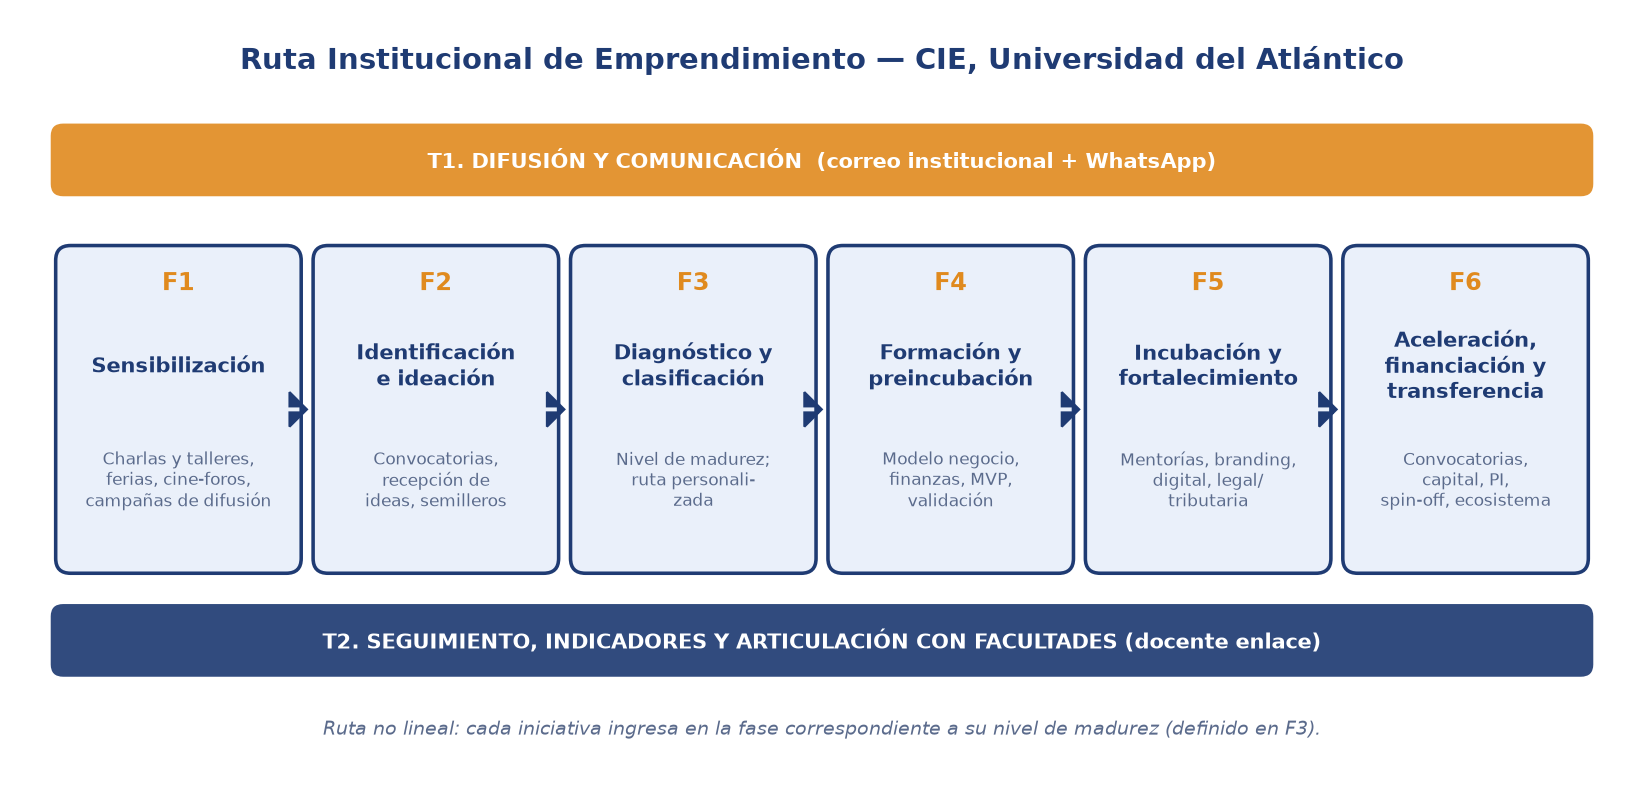
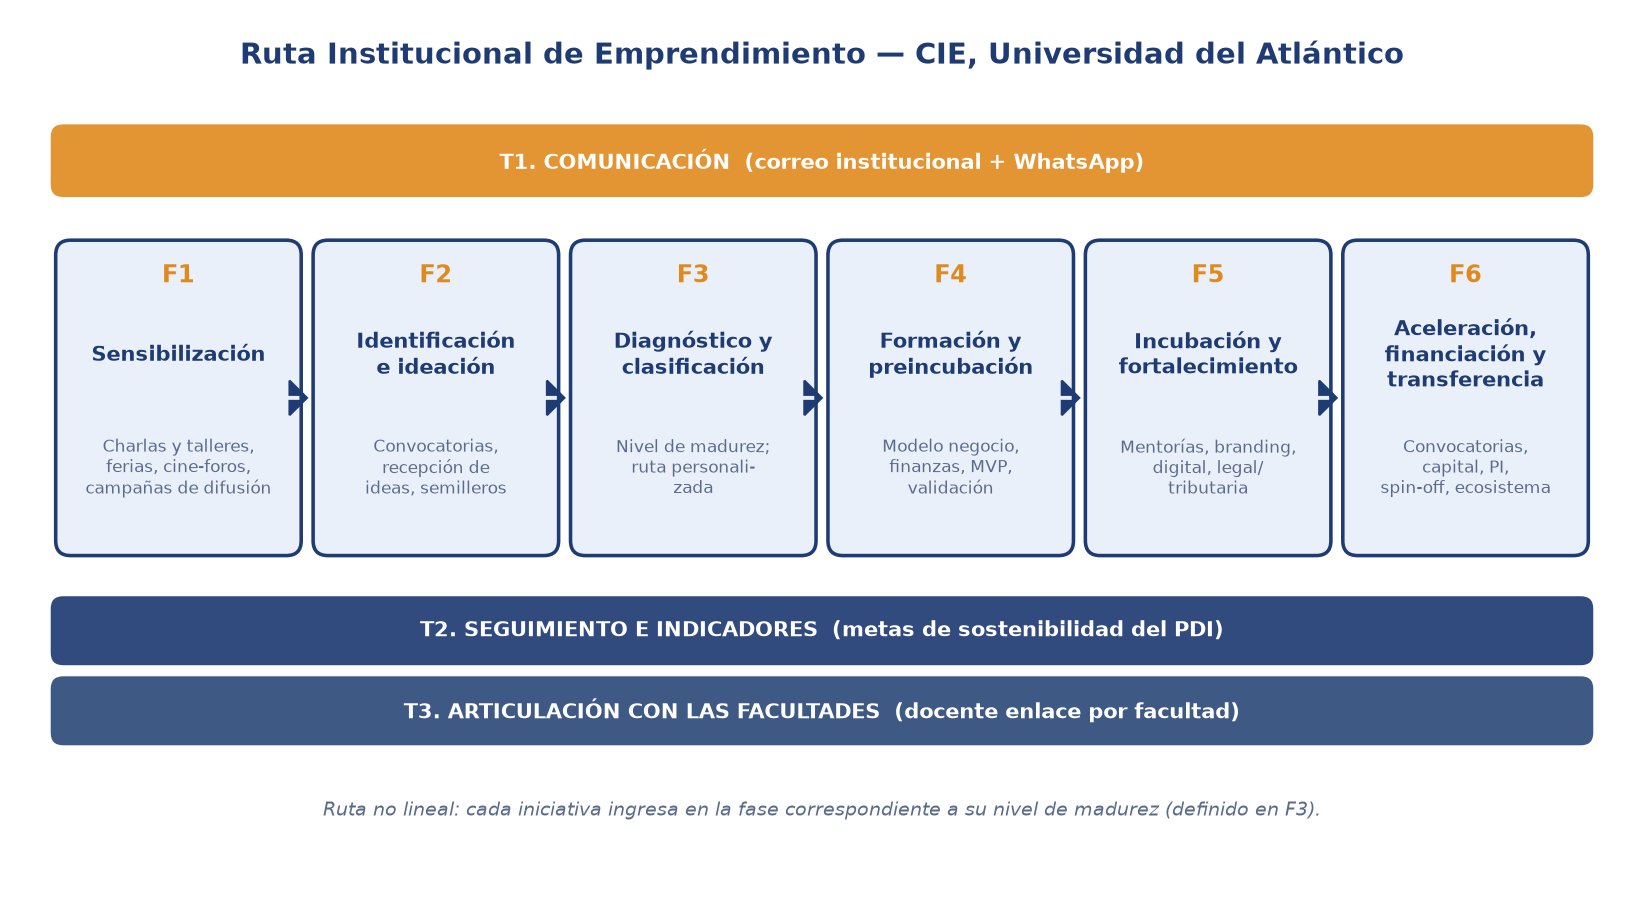
Cambios estructurales informe final: organigrama oficial, historia CIE, percepcion, graficos por figura, anexos 1-7 y ruta con 3 transversales

diff --git a/insumos/diagrama_ruta.py b/insumos/diagrama_ruta.py
@@ -4,17 +4,17 @@ import matplotlib.pyplot as plt
 from matplotlib.patches import FancyBboxPatch, FancyArrow
 import os
 
-BLUE="#1f3b73"; ORANGE="#e08a1e"; LIGHT="#eaf0fa"; GRAY="#5b6b8c"
-fig, ax = plt.subplots(figsize=(13,6.2)); ax.set_xlim(0,13); ax.set_ylim(0,6.2); ax.axis("off")
+BLUE="#1f3b73"; ORANGE="#e08a1e"; LIGHT="#eaf0fa"; GRAY="#5b6b8c"; SLATE="#33507d"
+fig, ax = plt.subplots(figsize=(13,7.2)); ax.set_xlim(0,13); ax.set_ylim(0,7.2); ax.axis("off")
 
-ax.text(6.5,5.95,"Ruta Institucional de Emprendimiento — CIE, Universidad del Atlántico",
+ax.text(6.5,7.0,"Ruta Institucional de Emprendimiento — CIE, Universidad del Atlántico",
         ha="center",va="top",fontsize=13,fontweight="bold",color=BLUE)
 
-# Transversal band top
-top=FancyBboxPatch((0.3,4.75),12.4,0.55,boxstyle="round,pad=0.02,rounding_size=0.1",
+# Transversal band top (T1)
+top=FancyBboxPatch((0.3,5.75),12.4,0.55,boxstyle="round,pad=0.02,rounding_size=0.1",
                    fc=ORANGE,ec="none",alpha=0.9)
 ax.add_patch(top)
-ax.text(6.5,5.02,"T1. DIFUSIÓN Y COMUNICACIÓN  (correo institucional + WhatsApp)",
+ax.text(6.5,6.02,"T1. COMUNICACIÓN  (correo institucional + WhatsApp)",
         ha="center",va="center",fontsize=9.5,fontweight="bold",color="white")
 
 phases=[
@@ -25,25 +25,31 @@ phases=[
  ("F5","Incubación y\nfortalecimiento","Mentorías, branding,\ndigital, legal/\ntributaria"),
  ("F6","Aceleración,\nfinanciación y\ntransferencia","Convocatorias,\ncapital, PI,\nspin-off, ecosistema"),
 ]
-n=len(phases); x0=0.35; w=1.92; gap=(12.3-n*w)/(n-1); y=1.7; h=2.6
+n=len(phases); x0=0.35; w=1.92; gap=(12.3-n*w)/(n-1); y=2.85; h=2.5
 for i,(tag,title,desc) in enumerate(phases):
     x=x0+i*(w+gap)
     box=FancyBboxPatch((x,y),w,h,boxstyle="round,pad=0.03,rounding_size=0.12",
                        fc=LIGHT,ec=BLUE,lw=1.6); ax.add_patch(box)
-    ax.text(x+w/2,y+h-0.28,tag,ha="center",va="center",fontsize=11,fontweight="bold",color=ORANGE)
-    ax.text(x+w/2,y+h-0.95,title,ha="center",va="center",fontsize=9.3,fontweight="bold",color=BLUE)
-    ax.text(x+w/2,y+0.72,desc,ha="center",va="center",fontsize=7.6,color=GRAY)
+    ax.text(x+w/2,y+h-0.26,tag,ha="center",va="center",fontsize=11,fontweight="bold",color=ORANGE)
+    ax.text(x+w/2,y+h-0.90,title,ha="center",va="center",fontsize=9.3,fontweight="bold",color=BLUE)
+    ax.text(x+w/2,y+0.68,desc,ha="center",va="center",fontsize=7.6,color=GRAY)
     if i<n-1:
         ax.add_patch(FancyArrow(x+w+0.04,y+h/2,gap-0.12,0,width=0.05,
                      head_width=0.28,head_length=0.14,fc=BLUE,ec=BLUE,length_includes_head=True))
 
-# Transversal band bottom
-bot=FancyBboxPatch((0.3,0.85),12.4,0.55,boxstyle="round,pad=0.02,rounding_size=0.1",
-                   fc=BLUE,ec="none",alpha=0.92); ax.add_patch(bot)
-ax.text(6.5,1.12,"T2. SEGUIMIENTO, INDICADORES Y ARTICULACIÓN CON FACULTADES (docente enlace)",
+# Transversal band bottom 1 (T2)
+b2=FancyBboxPatch((0.3,1.95),12.4,0.52,boxstyle="round,pad=0.02,rounding_size=0.1",
+                  fc=BLUE,ec="none",alpha=0.92); ax.add_patch(b2)
+ax.text(6.5,2.21,"T2. SEGUIMIENTO E INDICADORES  (metas de sostenibilidad del PDI)",
         ha="center",va="center",fontsize=9.5,fontweight="bold",color="white")
 
-ax.text(6.5,0.4,"Ruta no lineal: cada iniciativa ingresa en la fase correspondiente a su nivel de madurez (definido en F3).",
+# Transversal band bottom 2 (T3)
+b3=FancyBboxPatch((0.3,1.30),12.4,0.52,boxstyle="round,pad=0.02,rounding_size=0.1",
+                  fc=SLATE,ec="none",alpha=0.95); ax.add_patch(b3)
+ax.text(6.5,1.56,"T3. ARTICULACIÓN CON LAS FACULTADES  (docente enlace por facultad)",
+        ha="center",va="center",fontsize=9.5,fontweight="bold",color="white")
+
+ax.text(6.5,0.75,"Ruta no lineal: cada iniciativa ingresa en la fase correspondiente a su nivel de madurez (definido en F3).",
         ha="center",va="center",fontsize=8.5,style="italic",color=GRAY)
 
 os.makedirs("graficos",exist_ok=True)